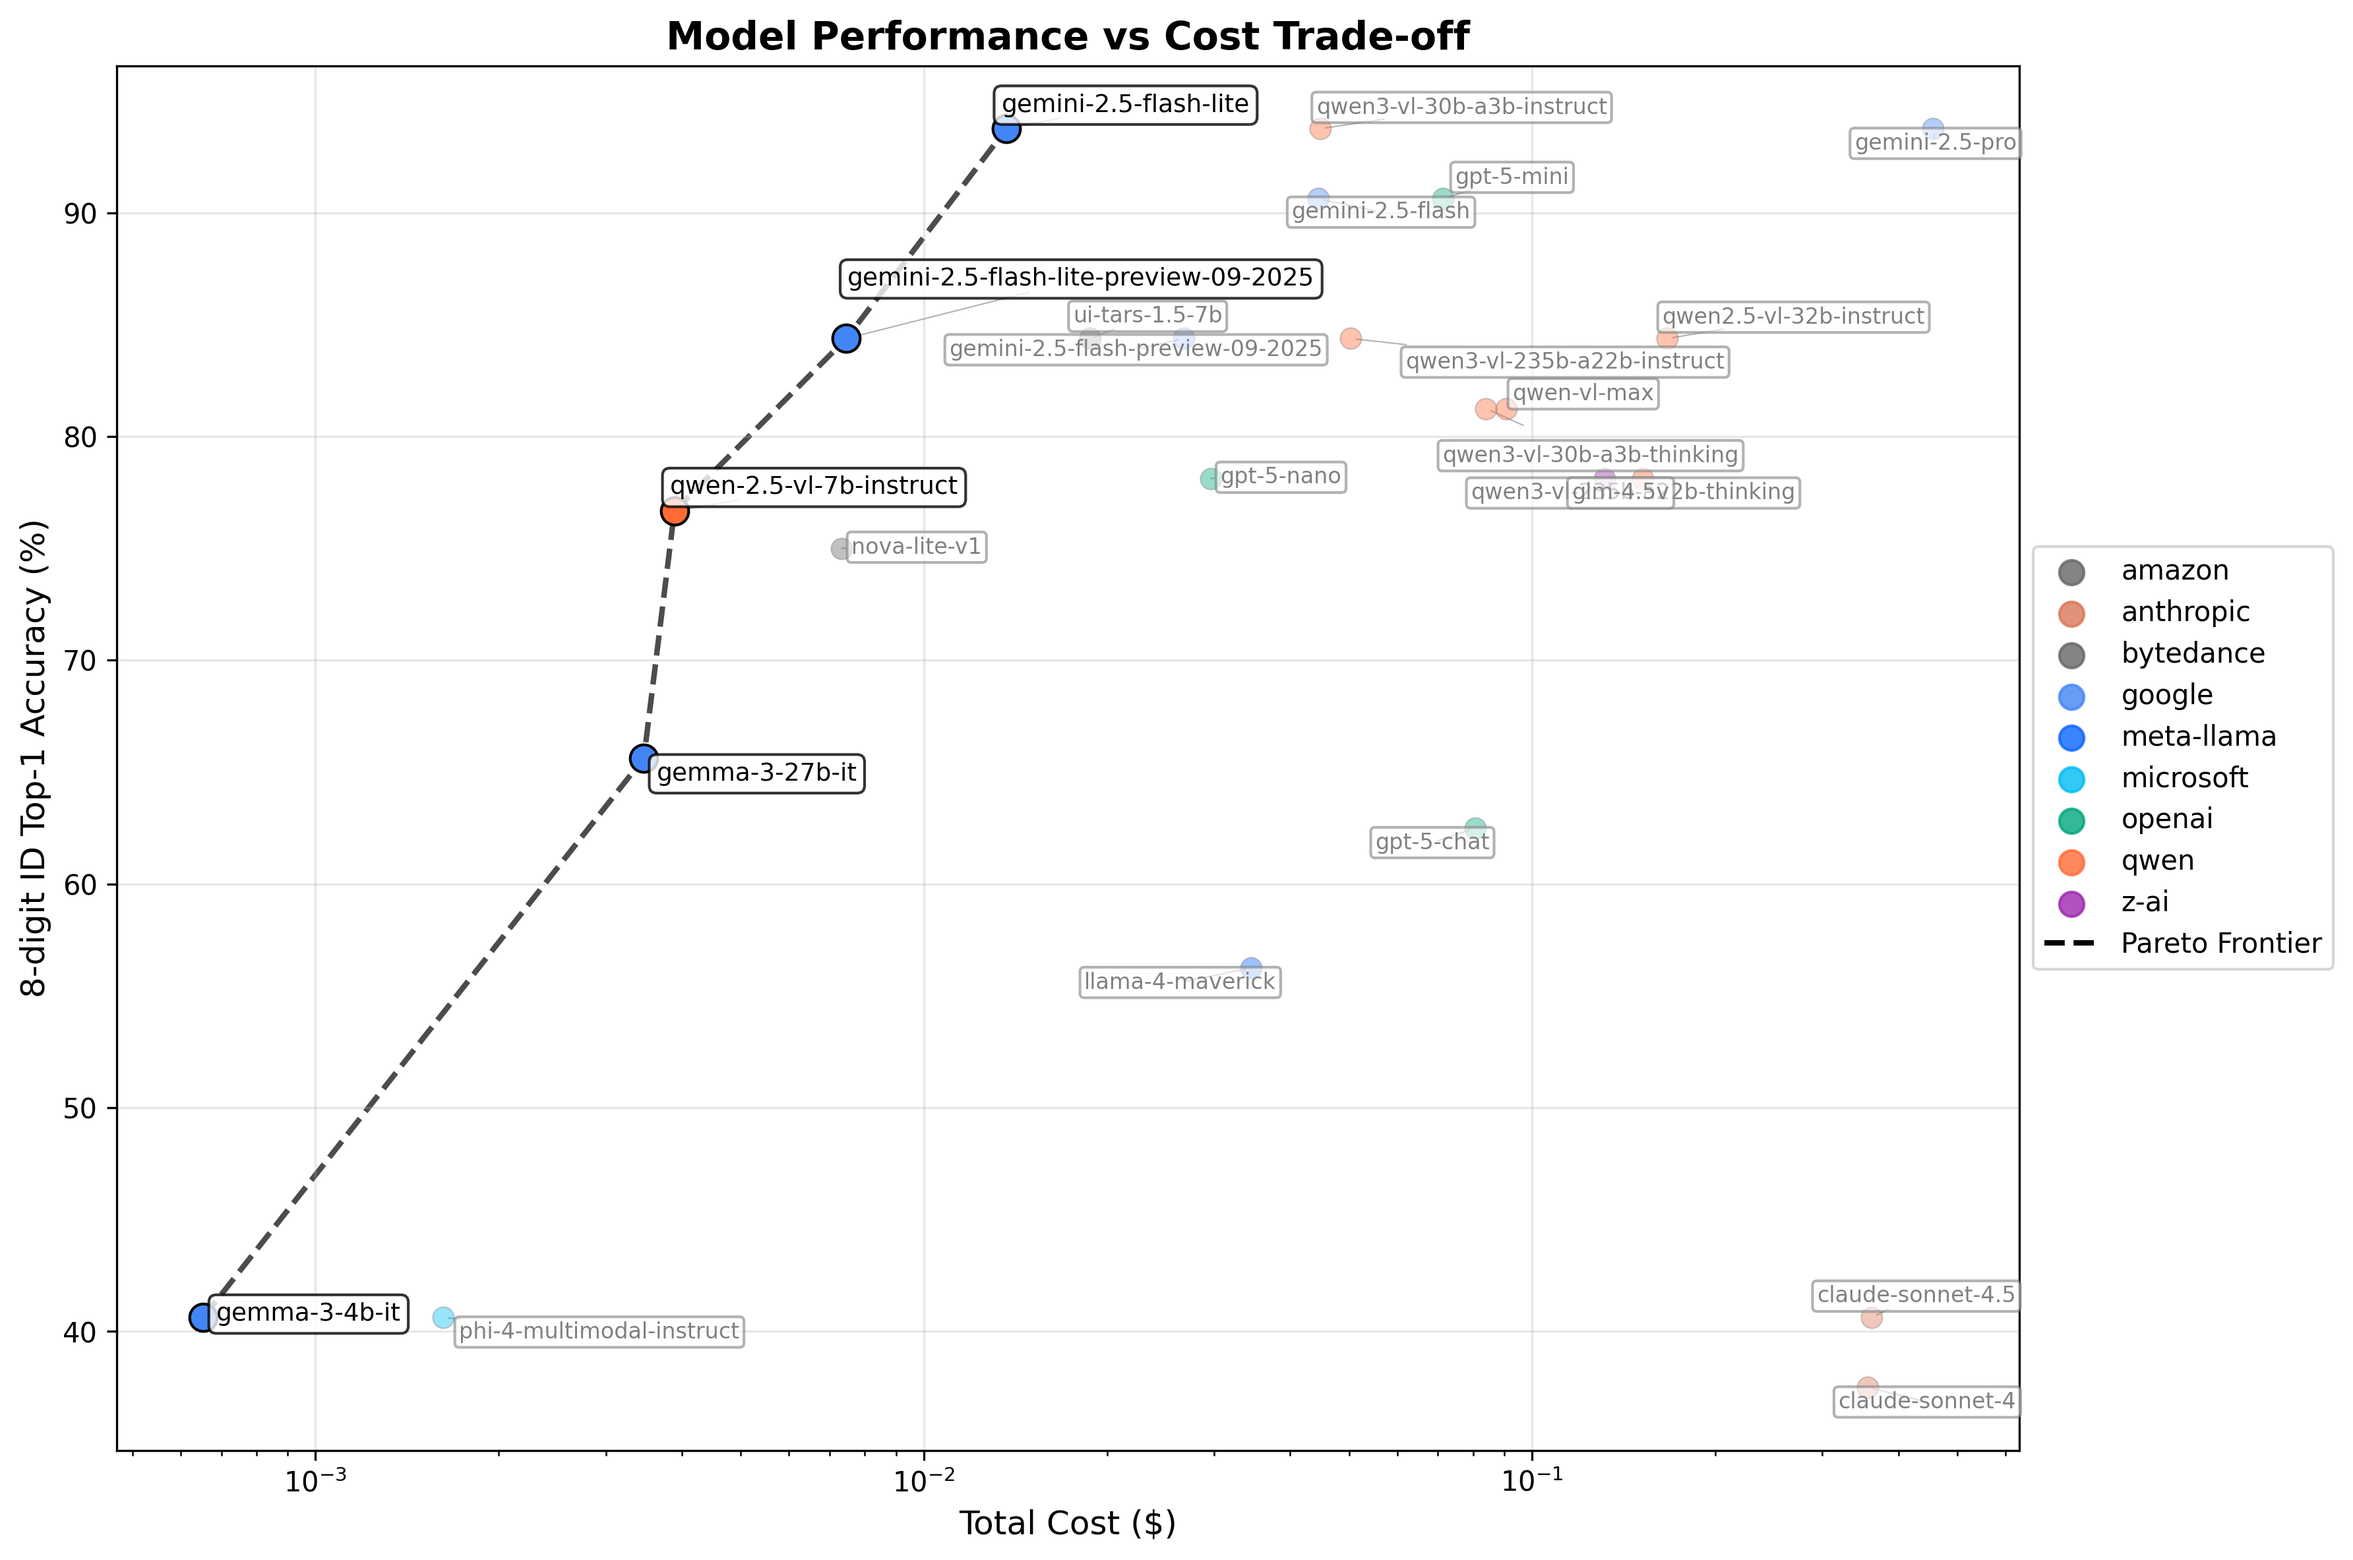
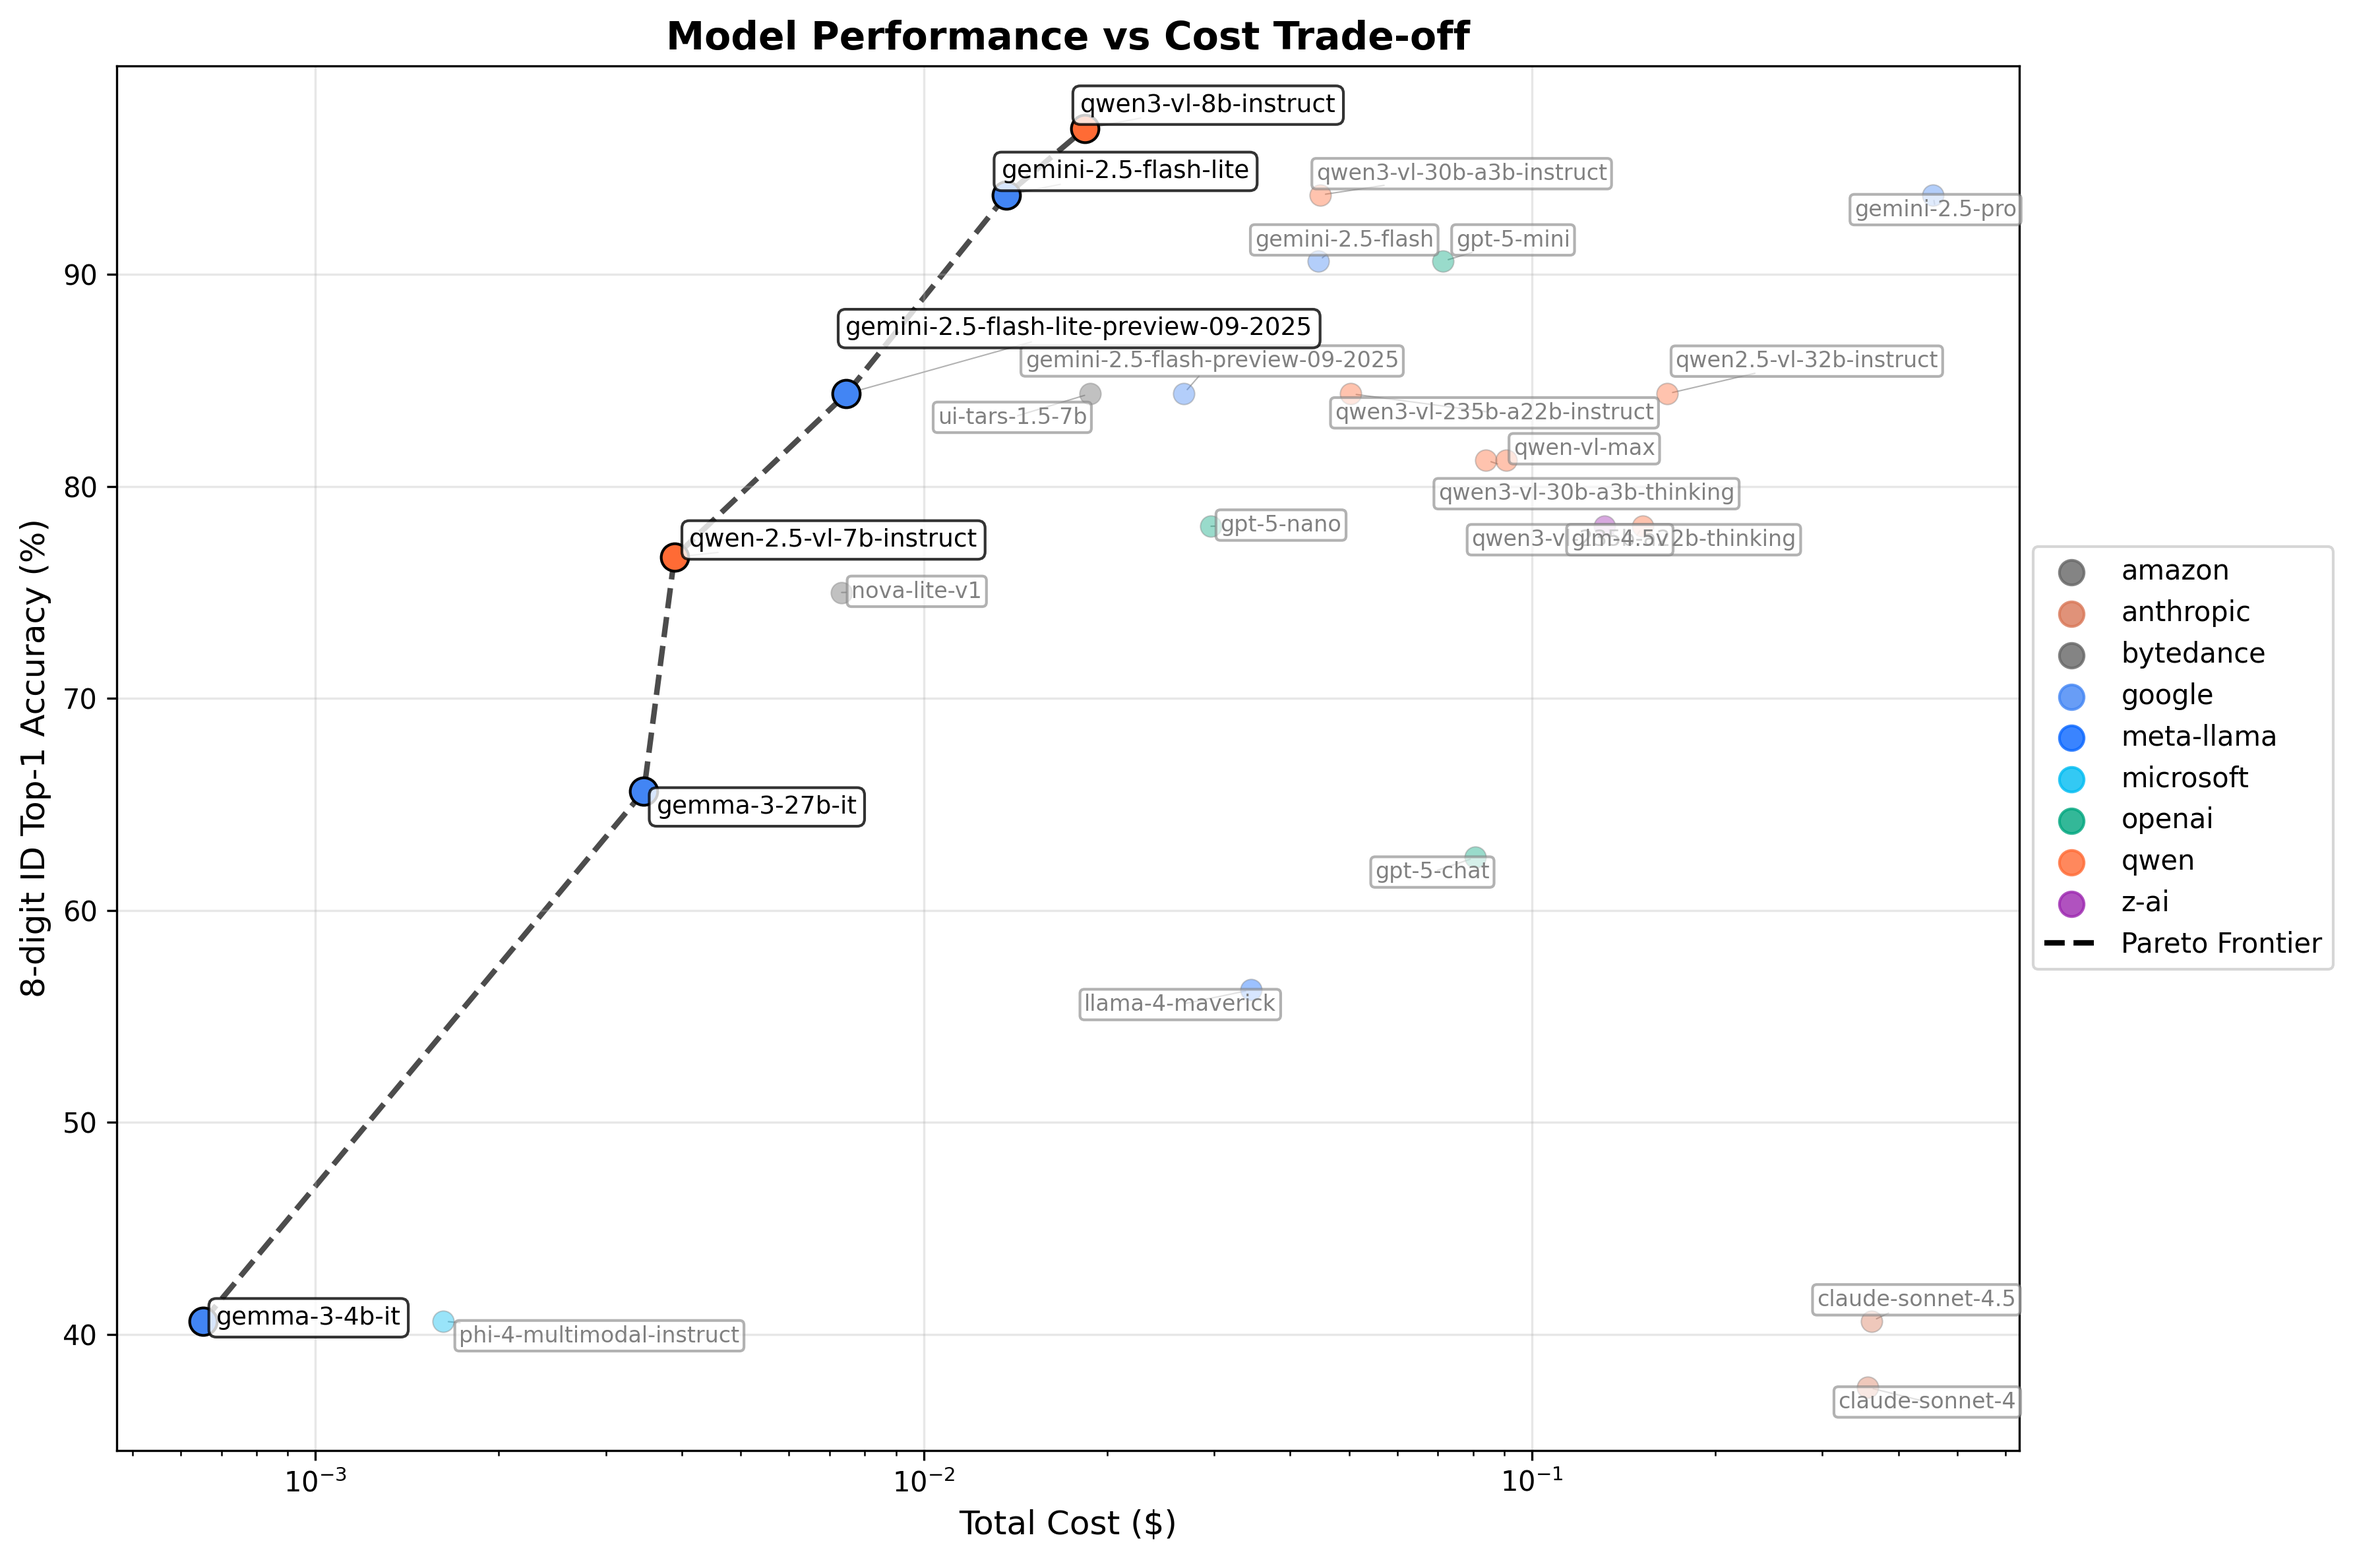
Update benchmark results and model metadata; add new Qwen3-vl-8b-instruct model and adjust performance metrics

diff --git a/BENCHMARKS.md b/BENCHMARKS.md
@@ -34,16 +34,16 @@ All VLM runs use the following consistent configuration:
 ## Complete Results
 
 
-| **Metric** | **OpenCV+CNN** | **qwen**<br>qwen3-vl-30b-a3b-instruct | **qwen**<br>qwen3-vl-30b-a3b-thinking | **qwen**<br>qwen-vl-max | **qwen**<br>qwen3-vl-235b-a22b-thinking | **qwen**<br>qwen3-vl-235b-a22b-instruct | **qwen**<br>qwen-2.5-vl-7b-instruct | **qwen**<br>qwen2.5-vl-32b-instruct | **google**<br>gemini-2.5-flash-preview-09-2025 | **google**<br>gemini-2.5-flash-lite-preview-09-2025 | **google**<br>gemini-2.5-pro | **google**<br>gemini-2.5-flash-lite | **google**<br>gemma-3-27b-it | **google**<br>gemma-3-4b-it | **google**<br>gemini-2.5-flash | **anthropic**<br>claude-sonnet-4.5 | **anthropic**<br>claude-sonnet-4 | **openai**<br>gpt-5-chat | **openai**<br>gpt-5-mini | **openai**<br>gpt-5-nano | **amazon**<br>nova-lite-v1 | **microsoft**<br>phi-4-multimodal-instruct | **bytedance**<br>ui-tars-1.5-7b | **meta-llama**<br>llama-4-maverick | **moonshotai**<br>kimi-vl-a3b-thinking:free | **z-ai**<br>glm-4.5v |
-|:---|:---|:---|:---|:---|:---|:---|:---|:---|:---|:---|:---|:---|:---|:---|:---|:---|:---|:---|:---|:---|:---|:---|:---|:---|:---|:---|
-| LLM model size | N/A | 30A3 | 30A3 | ?? | 235A22 | 235A22 | 7B | 32B | ?? | ?? | ?? | ?? | 27B | 4B | ?? | ?? | ?? | ?? | ?? | ?? | ?? | 5.6B | 7B | 400A17 | 16A3 | 106A12 |
-| Open-weights | N/A | Yes | Yes | No | Yes | Yes | Yes | Yes | No | No | No | No | Yes | Yes | No | No | No | No | No | No | No | Yes | Yes | Yes | Yes | Yes |
-| digit_top1 | 85.16% | **99.22%** | 97.27% | 97.27% | 94.53% | 97.66% | 82.08% | 96.09% | 98.05% | 97.66% | **99.22%** | **99.22%** | 89.45% | 75.00% | 98.83% | 82.81% | 84.77% | 89.84% | 98.83% | 96.48% | 89.06% | 71.48% | 96.48% | 89.84% | 85.94% | 93.36% |
-| 8-digit id_top1 | ?? | **93.75%** | 81.25% | 81.25% | 78.12% | 84.38% | 76.67% | 84.38% | 84.38% | 84.38% | **93.75%** | **93.75%** | 65.62% | 40.62% | 90.62% | 40.62% | 37.50% | 62.50% | 90.62% | 78.12% | 75.00% | 40.62% | 84.38% | 56.25% | 50.00% | 78.12% |
-| lastname_top1 | N/A | 93.75% | 93.75% | 96.88% | **100.00%** | 96.88% | **100.00%** | **100.00%** | 96.88% | 96.88% | 96.88% | 93.75% | **100.00%** | 90.62% | 96.88% | 93.75% | **100.00%** | **100.00%** | 96.88% | 90.62% | 96.88% | **100.00%** | 96.88% | 93.75% | 96.88% | **100.00%** |
-| ID Avg d_Lev | N/A | **0.0625** | 0.2188 | 0.2188 | 0.4688 | 0.1875 | 1.6333 | 0.1562 | 0.1562 | 0.1875 | **0.0625** | **0.0625** | 0.5000 | 0.9688 | 0.0938 | 1.0000 | 1.0938 | 0.5312 | 0.0938 | 0.2188 | 0.3750 | 1.2188 | 0.1562 | 0.5312 | 0.9062 | 0.2188 |
-| Lastname Avg d_Lev | N/A | 0.1875 | 0.0625 | 0.0312 | **0.0000** | 0.0312 | **0.0000** | **0.0000** | 0.0312 | 0.0312 | 0.0312 | 0.0625 | **0.0000** | 0.1250 | 0.0312 | 0.0938 | **0.0000** | **0.0000** | 0.0312 | 0.1250 | 0.0312 | **0.0000** | 0.0312 | 0.0938 | 0.0938 | **0.0000** |
-| Docs detected | 90.62% (29/32) | **100.00% (32/32)** | **100.00% (32/32)** | **100.00% (32/32)** | **100.00% (32/32)** | **100.00% (32/32)** | 93.75% (30/32) | **100.00% (32/32)** | **100.00% (32/32)** | **100.00% (32/32)** | **100.00% (32/32)** | **100.00% (32/32)** | **100.00% (32/32)** | **100.00% (32/32)** | **100.00% (32/32)** | **100.00% (32/32)** | **100.00% (32/32)** | **100.00% (32/32)** | **100.00% (32/32)** | **100.00% (32/32)** | **100.00% (32/32)** | **100.00% (32/32)** | **100.00% (32/32)** | **100.00% (32/32)** | **100.00% (32/32)** | **100.00% (32/32)** |
-| Runtime | **~1 second** | 2.3 minutes | 6.3 minutes | 4.5 minutes | 13.9 minutes | 4.5 minutes | 6.8 minutes | 2.3 minutes | 4.4 minutes | 4.4 minutes | 8.0 minutes | 2.3 minutes | 2.6 minutes | 2.0 minutes | 2.7 minutes | 5.4 minutes | 3.5 minutes | 2.8 minutes | 8.3 minutes | 10.5 minutes | 1.7 minutes | 2.1 minutes | 1.8 minutes | 2.0 minutes | 9.5 minutes | 6.2 minutes |
-| Cost per image | **$0.00** | $0.000700 | $0.001311 | $0.001415 | $0.002376 | $0.000786 | $0.000081 | $0.002605 | $0.000418 | $0.000117 | $0.007125 | $0.000214 | $0.000054 | $0.000010 | $0.000695 | $0.005646 | $0.005567 | $0.001260 | $0.001115 | $0.000463 | $0.000114 | $0.000025 | $0.000293 | $0.000539 | **$0.000000** | $0.002057 |
-| Total cost | **$0.00** | $0.0448 | $0.0839 | $0.0906 | $0.1521 | $0.0503 | $0.0039 | $0.1667 | $0.0267 | $0.0075 | $0.4560 | $0.0137 | $0.0035 | $0.0007 | $0.0445 | $0.3614 | $0.3563 | $0.0807 | $0.0714 | $0.0297 | $0.0073 | $0.0016 | $0.0187 | $0.0345 | **$0.0000** | $0.1316 |
+| **Metric** | **OpenCV+CNN** | **qwen**<br>qwen3-vl-8b-instruct | **qwen**<br>qwen3-vl-30b-a3b-instruct | **qwen**<br>qwen3-vl-30b-a3b-thinking | **qwen**<br>qwen-vl-max | **qwen**<br>qwen3-vl-235b-a22b-thinking | **qwen**<br>qwen3-vl-235b-a22b-instruct | **qwen**<br>qwen-2.5-vl-7b-instruct | **qwen**<br>qwen2.5-vl-32b-instruct | **google**<br>gemini-2.5-flash-preview-09-2025 | **google**<br>gemini-2.5-flash-lite-preview-09-2025 | **google**<br>gemini-2.5-pro | **google**<br>gemini-2.5-flash-lite | **google**<br>gemma-3-27b-it | **google**<br>gemma-3-4b-it | **google**<br>gemini-2.5-flash | **anthropic**<br>claude-sonnet-4.5 | **anthropic**<br>claude-sonnet-4 | **openai**<br>gpt-5-chat | **openai**<br>gpt-5-mini | **openai**<br>gpt-5-nano | **amazon**<br>nova-lite-v1 | **microsoft**<br>phi-4-multimodal-instruct | **bytedance**<br>ui-tars-1.5-7b | **meta-llama**<br>llama-4-maverick | **moonshotai**<br>kimi-vl-a3b-thinking:free | **z-ai**<br>glm-4.5v |
+|:---|:---|:---|:---|:---|:---|:---|:---|:---|:---|:---|:---|:---|:---|:---|:---|:---|:---|:---|:---|:---|:---|:---|:---|:---|:---|:---|:---|
+| LLM model size | N/A | 8B | 30A3 | 30A3 | ?? | 235A22 | 235A22 | 7B | 32B | ?? | ?? | ?? | ?? | 27B | 4B | ?? | ?? | ?? | ?? | ?? | ?? | ?? | 5.6B | 7B | 400A17 | 16A3 | 106A12 |
+| Open-weights | N/A | Yes | Yes | Yes | No | Yes | Yes | Yes | Yes | No | No | No | No | Yes | Yes | No | No | No | No | No | No | No | Yes | Yes | Yes | Yes | Yes |
+| digit_top1 | 85.16% | **99.61%** | 99.22% | 97.27% | 97.27% | 94.53% | 97.66% | 82.08% | 96.09% | 98.05% | 97.66% | 99.22% | 99.22% | 89.45% | 75.00% | 98.83% | 82.81% | 84.77% | 89.84% | 98.83% | 96.48% | 89.06% | 71.48% | 96.48% | 89.84% | 85.94% | 93.36% |
+| 8-digit id_top1 | ?? | **96.88%** | 93.75% | 81.25% | 81.25% | 78.12% | 84.38% | 76.67% | 84.38% | 84.38% | 84.38% | 93.75% | 93.75% | 65.62% | 40.62% | 90.62% | 40.62% | 37.50% | 62.50% | 90.62% | 78.12% | 75.00% | 40.62% | 84.38% | 56.25% | 50.00% | 78.12% |
+| lastname_top1 | N/A | 96.88% | 93.75% | 93.75% | 96.88% | **100.00%** | 96.88% | **100.00%** | **100.00%** | 96.88% | 96.88% | 96.88% | 93.75% | **100.00%** | 90.62% | 96.88% | 93.75% | **100.00%** | **100.00%** | 96.88% | 90.62% | 96.88% | **100.00%** | 96.88% | 93.75% | 96.88% | **100.00%** |
+| ID Avg d_Lev | N/A | **0.0312** | 0.0625 | 0.2188 | 0.2188 | 0.4688 | 0.1875 | 1.6333 | 0.1562 | 0.1562 | 0.1875 | 0.0625 | 0.0625 | 0.5000 | 0.9688 | 0.0938 | 1.0000 | 1.0938 | 0.5312 | 0.0938 | 0.2188 | 0.3750 | 1.2188 | 0.1562 | 0.5312 | 0.9062 | 0.2188 |
+| Lastname Avg d_Lev | N/A | 0.0625 | 0.1875 | 0.0625 | 0.0312 | **0.0000** | 0.0312 | **0.0000** | **0.0000** | 0.0312 | 0.0312 | 0.0312 | 0.0625 | **0.0000** | 0.1250 | 0.0312 | 0.0938 | **0.0000** | **0.0000** | 0.0312 | 0.1250 | 0.0312 | **0.0000** | 0.0312 | 0.0938 | 0.0938 | **0.0000** |
+| Docs detected | 90.62% (29/32) | **100.00% (32/32)** | **100.00% (32/32)** | **100.00% (32/32)** | **100.00% (32/32)** | **100.00% (32/32)** | **100.00% (32/32)** | 93.75% (30/32) | **100.00% (32/32)** | **100.00% (32/32)** | **100.00% (32/32)** | **100.00% (32/32)** | **100.00% (32/32)** | **100.00% (32/32)** | **100.00% (32/32)** | **100.00% (32/32)** | **100.00% (32/32)** | **100.00% (32/32)** | **100.00% (32/32)** | **100.00% (32/32)** | **100.00% (32/32)** | **100.00% (32/32)** | **100.00% (32/32)** | **100.00% (32/32)** | **100.00% (32/32)** | **100.00% (32/32)** | **100.00% (32/32)** |
+| Runtime | **~1 second** | 4.5 minutes | 2.3 minutes | 6.3 minutes | 4.5 minutes | 13.9 minutes | 4.5 minutes | 6.8 minutes | 2.3 minutes | 4.4 minutes | 4.4 minutes | 8.0 minutes | 2.3 minutes | 2.6 minutes | 2.0 minutes | 2.7 minutes | 5.4 minutes | 3.5 minutes | 2.8 minutes | 8.3 minutes | 10.5 minutes | 1.7 minutes | 2.1 minutes | 1.8 minutes | 2.0 minutes | 9.5 minutes | 6.2 minutes |
+| Cost per image | **$0.00** | $0.000302 | $0.000700 | $0.001311 | $0.001415 | $0.002376 | $0.000786 | $0.000081 | $0.002605 | $0.000418 | $0.000117 | $0.007125 | $0.000214 | $0.000054 | $0.000010 | $0.000695 | $0.005646 | $0.005567 | $0.001260 | $0.001115 | $0.000463 | $0.000114 | $0.000025 | $0.000293 | $0.000539 | **$0.000000** | $0.002057 |
+| Total cost | **$0.00** | $0.0184 | $0.0448 | $0.0839 | $0.0906 | $0.1521 | $0.0503 | $0.0039 | $0.1667 | $0.0267 | $0.0075 | $0.4560 | $0.0137 | $0.0035 | $0.0007 | $0.0445 | $0.3614 | $0.3563 | $0.0807 | $0.0714 | $0.0297 | $0.0073 | $0.0016 | $0.0187 | $0.0345 | **$0.0000** | $0.1316 |

diff --git a/README.md b/README.md
@@ -107,19 +107,19 @@ The table below shows the top performing models by category. See [BENCHMARKS.md]
 
 <!-- BENCHMARK_TABLE_START -->
 
-| **Metric** | **OpenCV+CNN** | **qwen**<br>qwen3-vl-30b-a3b-instruct | **bytedance**<br>ui-tars-1.5-7b | **google**<br>gemini-2.5-pro | **google**<br>gemini-2.5-flash-lite |
+| **Metric** | **OpenCV+CNN** | **qwen**<br>qwen3-vl-8b-instruct | **qwen**<br>qwen3-vl-30b-a3b-instruct | **google**<br>gemini-2.5-pro | **google**<br>gemini-2.5-flash-lite |
 |:---|:---|:---|:---|:---|:---|
-| LLM model size | N/A | 30A3 | 7B | ?? | ?? |
+| LLM model size | N/A | 8B | 30A3 | ?? | ?? |
 | Open-weights | N/A | Yes | Yes | No | No |
-| digit_top1 | 85.16% | **99.22%** | 96.48% | **99.22%** | **99.22%** |
-| 8-digit id_top1 | ?? | **93.75%** | 84.38% | **93.75%** | **93.75%** |
-| lastname_top1 | N/A | 93.75% | **96.88%** | **96.88%** | 93.75% |
-| ID Avg d_Lev | N/A | **0.0625** | 0.1562 | **0.0625** | **0.0625** |
-| Lastname Avg d_Lev | N/A | 0.1875 | **0.0312** | **0.0312** | 0.0625 |
+| digit_top1 | 85.16% | **99.61%** | 99.22% | 99.22% | 99.22% |
+| 8-digit id_top1 | ?? | **96.88%** | 93.75% | 93.75% | 93.75% |
+| lastname_top1 | N/A | **96.88%** | 93.75% | **96.88%** | 93.75% |
+| ID Avg d_Lev | N/A | **0.0312** | 0.0625 | 0.0625 | 0.0625 |
+| Lastname Avg d_Lev | N/A | 0.0625 | 0.1875 | **0.0312** | 0.0625 |
 | Docs detected | 90.62% (29/32) | **100.00% (32/32)** | **100.00% (32/32)** | **100.00% (32/32)** | **100.00% (32/32)** |
-| Runtime | **~1 second** | 2.3 minutes | 1.8 minutes | 8.0 minutes | 2.3 minutes |
-| Cost per image | **$0.00** | $0.000700 | $0.000293 | $0.007125 | $0.000214 |
-| Total cost | **$0.00** | $0.0448 | $0.0187 | $0.4560 | $0.0137 |
+| Runtime | **~1 second** | 4.5 minutes | 2.3 minutes | 8.0 minutes | 2.3 minutes |
+| Cost per image | **$0.00** | $0.000302 | $0.000700 | $0.007125 | $0.000214 |
+| Total cost | **$0.00** | $0.0184 | $0.0448 | $0.4560 | $0.0137 |
 
 ### Performance vs Cost Trade-off
 
